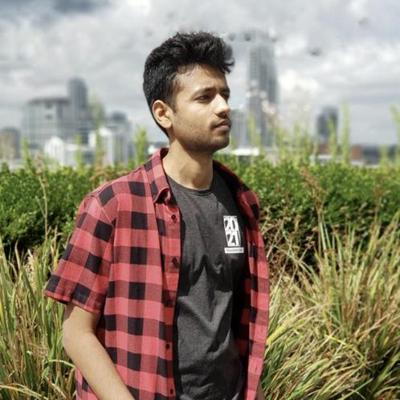
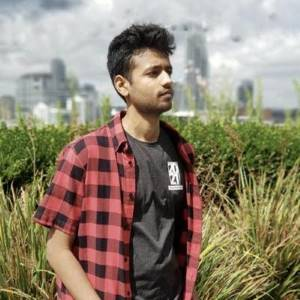
Update images (#282)
* Add files via upload

* Add files via upload

* Add files via upload

* Add files via upload

* Add files via upload

* Add files via upload

* Update 2024-01-05-2023.findings-emnlp.993.md

* Add files via upload

* Add files via upload

* Add files via upload

* Update 2023-10-18-MAGNIFICo.md

* Add files via upload

* Update 2022-07-01-nlp_interpretability_survey.md

* Add pictures for missing authors

* Reduce image size

Changed region(s): [[0.84, 0.96, 0.87, 1.0], [0.96, 0.9, 0.99, 0.93], [0.75, 0.93, 0.78, 0.96]]

diff --git a/_posts/papers/2022-07-01-nlp_interpretability_survey.md b/_posts/papers/2022-07-01-nlp_interpretability_survey.md
@@ -5,7 +5,7 @@ categories: Publications # Used to list all posts about publications in /publica
 names: "Andreas Madsen, Siva Reddy, Sarath Chandar" # names of all authors
 link: https://arxiv.org/abs/2108.04840 # link to paper
 twitter: https://twitter.com/andreas_madsen/status/1425794989741727748  # link to twitter thread (optional)
-thumbnail: /assets/images/papers/2021-nlp_interpretability_survey.svg  # link to a thumbnail (optional)
+thumbnail: /assets/images/papers/nlp_interpretability_survey.jpg  # link to a thumbnail (optional)
 venue: ACM Computing Surveys  # venue and year of the paper
 tags: ACM # tag of the paper (exclude year, use shorthand)
 ---

diff --git a/_posts/papers/2023-10-18-MAGNIFICo.md b/_posts/papers/2023-10-18-MAGNIFICo.md
@@ -12,7 +12,7 @@ tags:
 - Evaluation
 code: https://github.com/McGill-NLP/MAGNIFICo
 webpage: https://mcgill-nlp.github.io/MAGNIFICo
-thumbnail: /assets/images/papers/magnifico.svg
+thumbnail: /assets/images/papers/magnifico.jpg
 categories: Publications
 
 ---

diff --git a/_posts/papers/2024-01-05-2023.findings-emnlp.993.md b/_posts/papers/2024-01-05-2023.findings-emnlp.993.md
@@ -8,7 +8,7 @@ tags:
 link: https://aclanthology.org/2023.findings-emnlp.993/
 code: https://github.com/cesare-spinoso/QCS
 categories: Publications
-
+thumbnail: /assets/images/papers/2023.findings-emnlp.993.jpg
 ---
 
 *{{ page.names }}*
